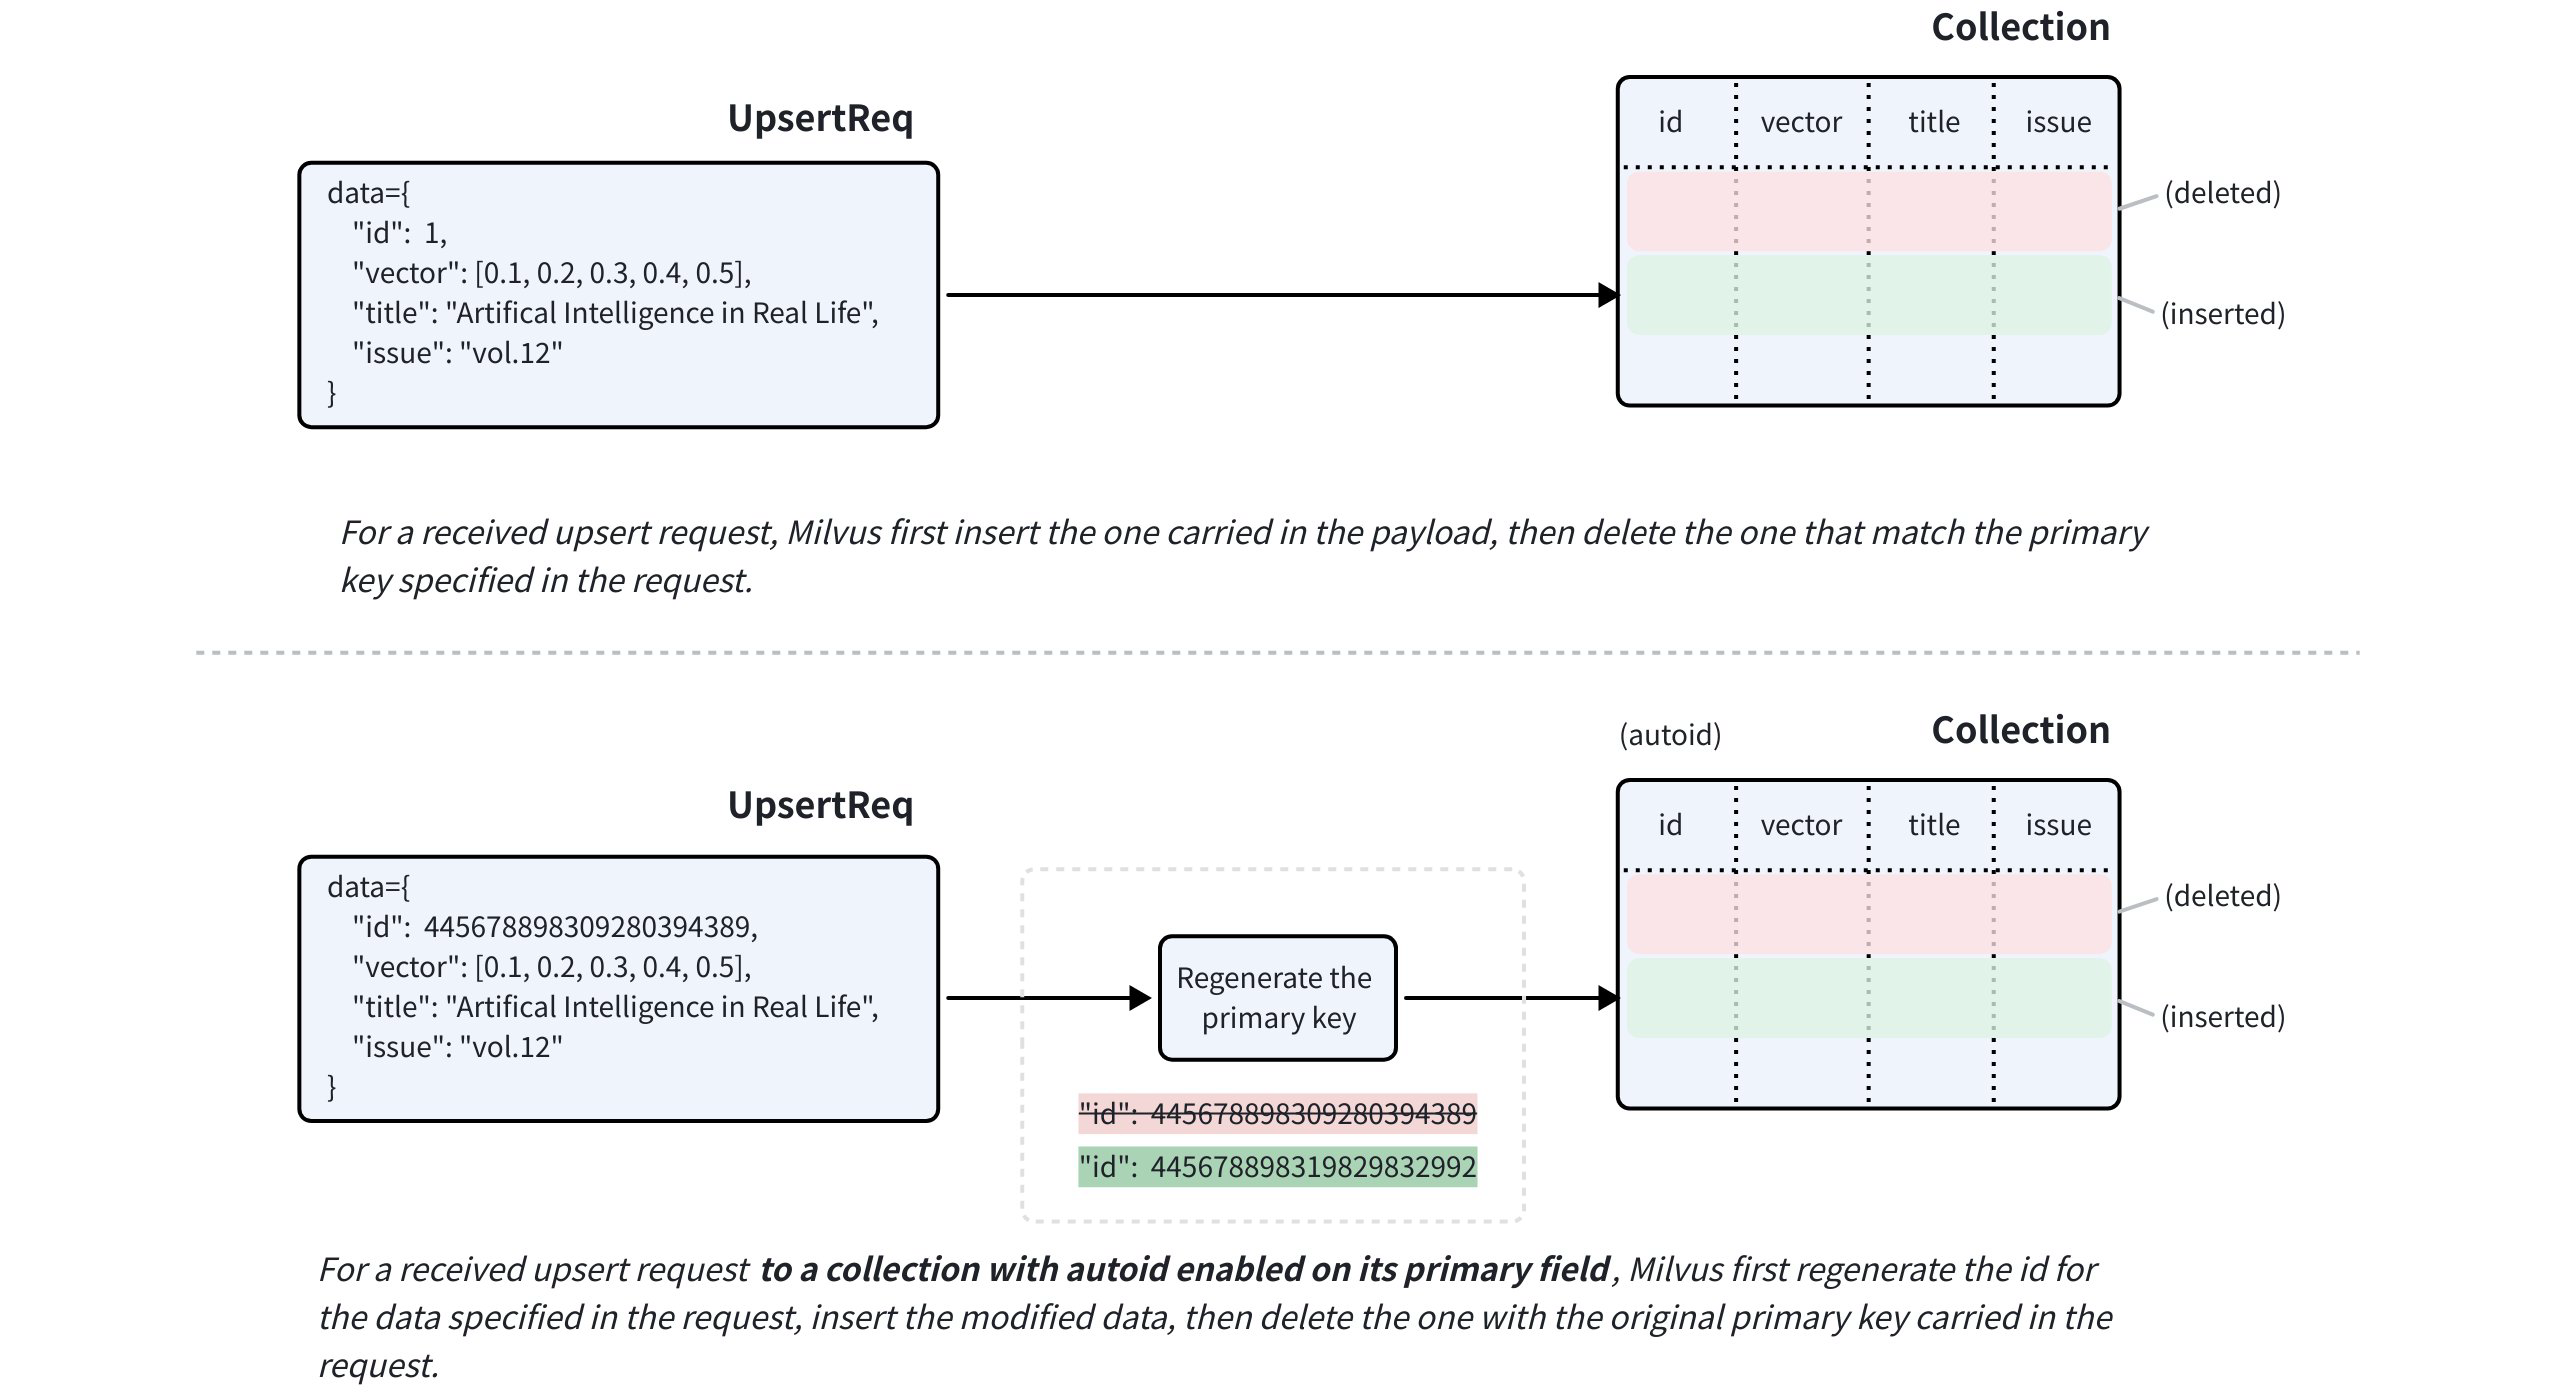
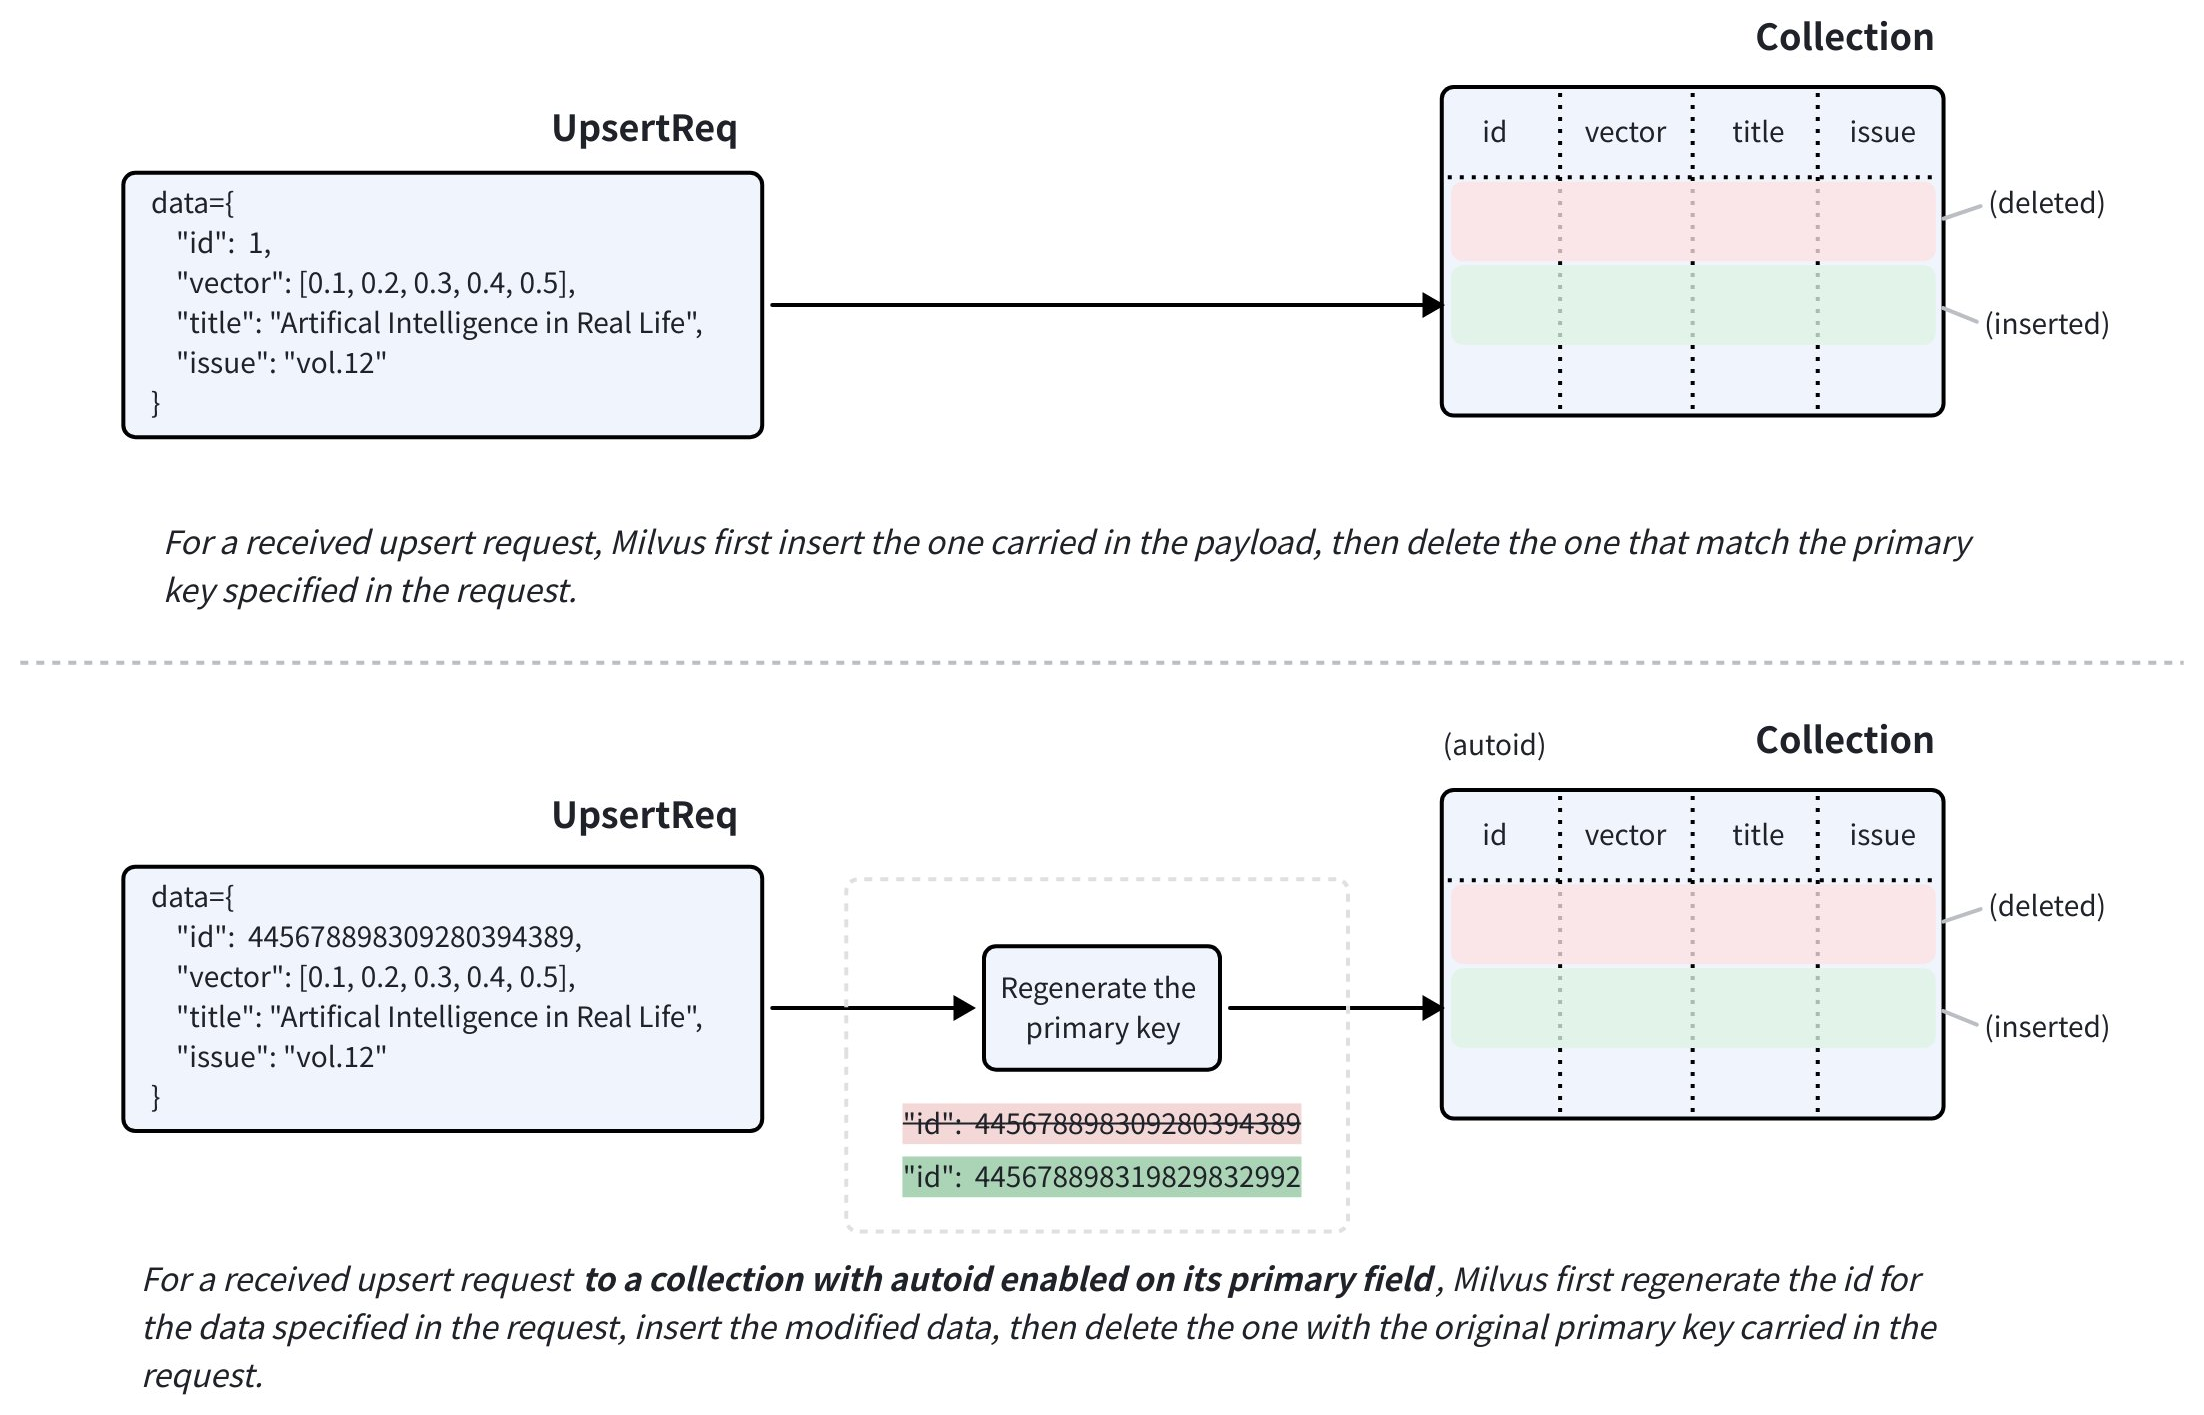
update docs

diff --git a/site/en/userGuide/insert-and-delete/upsert-entities.md b/site/en/userGuide/insert-and-delete/upsert-entities.md
@@ -58,21 +58,13 @@ There are several special notes you should consider before using the merge featu
 
     - If you upsert with `partial_update` enabled, the default behavior is to **merge**. It means that the value of the dynamic field will merge with all non-schema-defined fields included in the request and their values.
 
-        For example, if the data included in the request is `{"author": "John", "year": 2020, "tags": ["fiction"]}`, the key-value pairs in the dynamic field of the target entity will become `{"author": "Jane", "year": 2020, "tags": ["fiction"], "genre": "fantasy"}` after the upsert.
+        For example, if the data included in the request is `{"author": "John", "year": 2020, "tags": ["fiction"]}`, the key-value pairs in the dynamic field of the target entity will become `{"author": "John", "year": 2020, "tags": ["fiction"], "genre": "fantasy"}` after the upsert.
 
 - **Upsert a JSON field.**
 
     Suppose that the example collection has a schema-defined JSON field named `extras`, and the key-value pairs in this JSON field of an entity are similar to `{"author": "John", "year": 2020, "tags": ["fiction"]}`.
 
-    When you upsert the `extras` field of an entity with modified JSON data, note that:
-
-    - If you upsert with `partial_update` disabled, the default behavior is to **override**. It means the value of the JSON field included in the request will override the original value of the target entity's JSON field. 
-
-        For example, if the data included in the request is `{extras: {"author": "Jane", "genre": "fantasy"}}`, the key-value pairs in the `extras` field of the target entity will be updated to `{"author": "Jane", "genre": "fantasy"}`.
-
-    - If you upsert with `partial_update` enabled, the default behavior is to **merge**. It means the value of the JSON field included in the request will merge with the original value of the target entity's JSON field.
-
-        For example, if the data included in the request is `{extras: {"author": "Jane", "genre": "fantasy"}}`, the key-value pairs in the `extras` field of the target entity will become `{"author": "Jane", "year": 2020, "tags": ["fiction"], "genre": "fantasy"}` after the udpate.
+    When you upsert the `extras` field of an entity with modified JSON data, note that the JSON field is treated as a whole, and you cannot update individual keys selectively. In other words, the JSON field **DOES NOT** support upsert in **merge** mode.
 
 ### Limits & Restrictions
 
